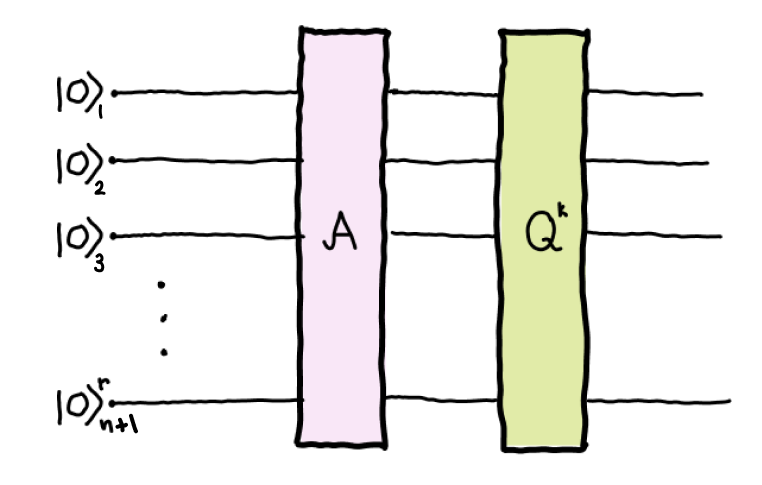
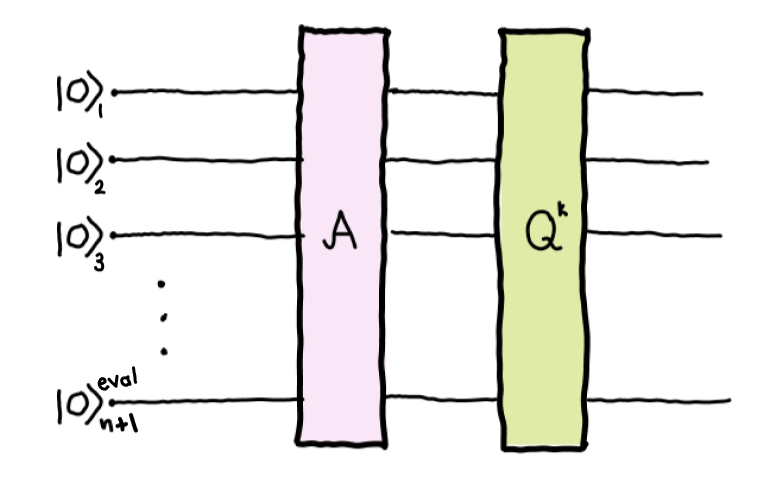
Final round of edits from David

diff --git a/demonstrations_v2/iterative_quantum_amplitude_estimation/demo.py b/demonstrations_v2/iterative_quantum_amplitude_estimation/demo.py
@@ -7,7 +7,7 @@ Iterative Quantum Amplitude Estimation
 
 It is expensive to guess. 
 
-If, for example, you want to find a specific element in a list of length N, basic classical, unstructured search techniques require individual guesses to be evaluated sequentially. This implies a :math:`\mathcal{O}(N)` cost. Though not necessarily prohibitive, this cost behaviour implies that large lists will be difficult to search through as resource limits are reached. :doc:`Grover's algorithm <demos/tutorial_grovers_algorithm>` improved on these techniques by taking advantage of quantum information processing methods, improving cost to :math:`\mathcal{O}(\sqrt{N})`.
+If, for example, you want to find a specific element in a list of length :math:`N`, basic classical, unstructured search techniques require individual guesses to be evaluated sequentially. This implies a :math:`\mathcal{O}(N)` cost. Though not necessarily prohibitive, this cost behaviour implies that large lists will be difficult to search through as resource limits are reached. :doc:`Grover's algorithm <demos/tutorial_grovers_algorithm>` improved on these techniques by taking advantage of quantum information processing methods, improving cost to :math:`\mathcal{O}(\sqrt{N})`.
 
 In 2000, the quantum amplitude estimation (QAE) algorithm was put forward as a method to estimate the fraction of states that satisfy a given criterion, if it exists in the set at all [#Brassard2000]_. Here, a superposition state is operated on by the Grover operator :math:`2^n` times in a controlled ladder approach, where :math:`n` is the size of the evaluation register. The rotation and amplification induced by the Grover operator encode an amplitude in an evaluation register indicating the fraction of "good" states that meet the target criterion in a data set, which is obtained through quantum processing via :doc:`quantum Fourier transform (QFT) <demos/tutorial_qft>` to carry out quantum phase estimation (QPE).
 
@@ -80,7 +80,7 @@ MCX_wires = [num_qubits-3,num_qubits-2,num_qubits-1,num_qubits]
 # .. math::
 #    \mathcal{Q}=-\mathcal{A}\mathcal{S}_0\mathcal{A}^{-1}\mathcal{S}_{\psi_1}.
 #
-# In which :math:`\mathcal{S}_{\psi_1}` acts as the oracle and flips the phase of (marks) a "good" state and :math:`\mathcal{S}_0` should flip the phase of the :math:`|0\rangle` state (see figures 1 through 3 in the :doc:`amplitude amplification demo <demos/tutorial_intro_amplitude_amplification>` for an intuitive visualization). Since this is a non-uniform superposition, the operator that facilitates this process needs to be defined rather than using PennyLane's built-in  :class:~pennylane.GroverOperator function, which assumes a uniform superposition. 
+# In which :math:`\mathcal{S}_{\psi_1}` acts as the oracle and flips the phase of (marks) a "good" state and :math:`\mathcal{S}_0` should flip the phase of the :math:`|0\rangle` state (see figures 1 through 3 in the :doc:`amplitude amplification demo <demos/tutorial_intro_amplitude_amplification>` for an intuitive visualization). Since this is a non-uniform superposition, the operator that facilitates this process needs to be defined rather than using PennyLane's built-in :class:`~.pennylane.GroverOperator` function, which assumes a uniform superposition. 
 #
 # First, :math:`\mathcal{A}` can be defined according to the following procedure: 
 #
@@ -177,7 +177,7 @@ circuit = circuit_builder(catalyst_bool)
 # .. math::
 #    \mathbb{P}(|1\rangle)=\frac{1-\cos((4k+2)\theta_a)}{2}=\frac{1-\cos(K_i\theta_a)}{2}.
 #
-# Letting :math:`K_i=4k+2` be the frequency term.
+# Letting :math:`K_i=4k+2` be the frequency.
 #
 # In [#Grinko2021]_, the authors define ``FindNextK()`` to determine the number of times :math:`\mathcal{Q}` is implemented per iteration. The goal of ``FindNextK()`` is to identify the largest possible :math:`k` that adheres to what is called the **half-plane condition**. The core principle of IQAE is the narrowing of a range of potential amplitudes to, eventually, home in on an accurate estimate of the "good" state probability. To do this, each iteration of the algorithm must operate between an upper and lower bound that make up the function's **confidence interval**, which corresponds to the range of probabilities within which the final probability amplitude will exist. Since the calculation involves a :math:`\arcsin(x)` calculation, it is possible that this confidence interval could yield uninterpretable results if one angle falls in the upper half of the unit circle (i.e. between 0 and :math:`\pi`) and the other falls in the lower half of the unit circle (i.e. between :math:`\pi` and :math:`2\pi`) since information about the measurement's position on the probability curve would be lost. So, having both bounds of the confidence interval on the same half-plane of the unit circle will result in unambiguous knowledge on which branch of :math:`\arcsin(x)` should be used. Thus, valid results should always fall in either the upper or lower half-plane of the unit circle.
 #
@@ -245,7 +245,7 @@ def FindNextK(k_i,theta_min, theta_max, HalfPlane_bool):
 # 3. Compute the overlap between the previous confidence interval and the new confidence interval, taking this to be your final upper and lower bound definition. 
 # 4. Check to see if the difference between the new upper and lower bounds is smaller than :math:`\epsilon`, which represents a chosen accuracy parameter. If not, pass the final upper and lower bounds back into ``FindNextK()`` and repeat. If yes, return the probability amplitudes associated with the upper and lower amplitudes. 
 #
-# The confidence intervals can be determined using the Chernoff-Hoeffding bound, where the margin of error is given by :math:`\epsilon_{a_i}`. From [#Grinko2021]_.
+# The confidence intervals can be determined using the Chernoff-Hoeffding bound, where the margin of error is given by :math:`\epsilon_{a_i}` from [#Grinko2021]_.
 #
 # .. math::
 #    \epsilon_{a_i}=\sqrt{\frac{1}{2N_{shots}}\log{\frac{2T}{\alpha}}}.
@@ -354,7 +354,7 @@ else:
 ##############################################################################
 # Conclusion
 # ----------
-# QAE was put forward as a generalized adaptation of quantum search methods, which hinted at the viability of quantum computers as a notable improvement on existing technologies early on. IQAE pushed forward with this task, showing not only that quantum hardware has the potential to provide advantages in estimation algorithms but that classical feedback loops can be employed to reduce implementation limitations. The implementation shown here does not achieve full quadratic speedup compared to classical estimation methods, but advancements have been subsequently made ([#Fukuzawa2023]_) to meet this metric. 
+# # QAE was put forward as a generalized adaptation of quantum search methods, which hinted at the viability of quantum computers as a notable improvement on existing technologies early on. IQAE pushed forward with this task, showing not only that quantum hardware has the potential to provide advantages in estimation algorithms but that classical feedback loops can be employed to reduce implementation limitations. The implementation shown here does not achieve full quadratic speedup compared to classical estimation methods, but advancements have been subsequently made to meet this metric [#Fukuzawa2023]_. 
 # 
 # As alluded to, IQAE has the potential to make notable impacts in various applications, such as in the calculation of expectation values in applications like quantum chemistry. Proposals have also been put forward to employ IQAE in areas such as risk analysis, financial portfolio modelling and optimization, and power grid analysis. The true feasibility of using IQAE (and, really, any other quantum algorithm) in these applications will become clearer as quantum hardware advances in capability and usability. 
 # 